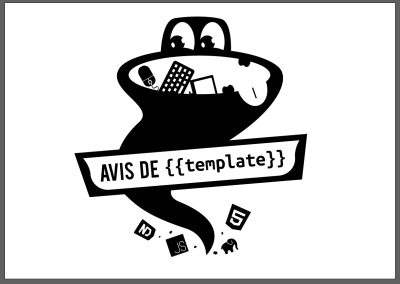
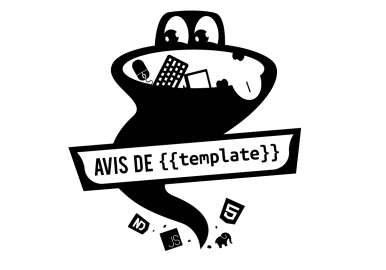
Img deb

diff --git a/index.html b/index.html
@@ -4,6 +4,7 @@
         <meta charset="utf-8">
   		<meta name="viewport" content="width=device-width, initial-scale=1">
   		<link rel="stylesheet" href="https://maxcdn.bootstrapcdn.com/bootstrap/3.3.7/css/bootstrap.min.css">
+      <link rel="stylesheet" type="text/css" href="css/index.css">
   		<script src="https://ajax.googleapis.com/ajax/libs/jquery/3.2.1/jquery.min.js"></script>
   		<script src="https://maxcdn.bootstrapcdn.com/bootstrap/3.3.7/js/bootstrap.min.js"></script>
         <title>Avis de {{ template }}</title>
@@ -11,7 +12,7 @@
    	<body>
         <div class="container-fluid bg-one text-center">
   			<h3>Team Avis de {{ template }}</h3>
-  			<img src="img/avis_de_template.png" alt="logo_team">
+  			<img src="img/avis_de_template.png" class="img-circle logo" alt="logo_team">
   			<h3>NDI 2017</h3>
 		</div>
     </body>

diff --git a/css/index.css b/css/index.css
@@ -1,3 +1,8 @@
 .bg-one{
-	background-color: #D6DDEC;
+	background-color: #e5e5e5;
+}
+
+.logo{
+	width: 300px;
+	height: 300px;
 }
